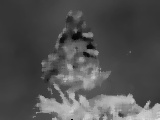
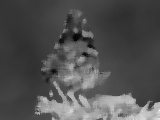
changed sigma values

diff --git a/hwork2/dip2_py/dip2.py b/hwork2/dip2_py/dip2.py
@@ -58,7 +58,7 @@ def spatial_convolution(src: np.ndarray, kernel: np.ndarray) -> np.ndarray:
     padding_height = kernel_h//2
     padding_width = kernel_w//2
 
-    padded_image = np.pad(src,((padding_height,),(padding_width,)), "median")
+    padded_image = np.pad(src,((padding_height,),(padding_width,)), "reflect")
 
     result = np.zeros_like(src, dtype=float)
 
@@ -96,13 +96,10 @@ def median_filter(src: np.ndarray, k_size: int) -> np.ndarray:
     for y in range(src_h):
         for x in range(src_w):
             region = padded_src[y:y+k_size , x:x+k_size]
-            if x == 5 and y == 5:
-                print(region.flatten())
+            
             #region = sorted(region)
             flat_region = region.flatten()
             sorted_region = np.array(sorted((flat_region)))
-            if x == 5 and y == 5:
-                print('after sort: ',sorted_region)
             result[y,x] = np.median(sorted_region)
             
     # TO DO !!
@@ -114,7 +111,7 @@ def bilateral_filter(src: np.ndarray, k_size: int, sigma_spatial: float, sigma_r
     """
     Bilateral filter.
     """
-    padded_image = np.pad(src, ((k_size//2,),(k_size//2,)),"median")
+    padded_image = np.pad(src, ((k_size//2,),(k_size//2,)),"reflect")
 
     result = np.zeros_like(src, dtype=float)
     img_h, img_w = src.shape
@@ -158,13 +155,17 @@ def choose_best_algorithm(noise_type: NoiseType) -> NoiseReductionAlgorithm:
     """
     Chooses the right algorithm for the given noise type.
     """
-    # TO DO !!
+    # TO DO !!  
+
+
+
+
     match noise_type:
         case NoiseType.NOISE_TYPE_1:
             return NoiseReductionAlgorithm.NR_MEDIAN_FILTER
         case NoiseType.NOISE_TYPE_2:
             return NoiseReductionAlgorithm.NR_BILATERAL_FILTER
-        case _:
+        case NoiseType.NOISE_TYPE_2:
             return NoiseReductionAlgorithm.NR_MOVING_AVERAGE_FILTER
 
     raise NotImplementedError("Student implementation missing")
@@ -196,9 +197,9 @@ def denoise_image(
 
     if noise_reduction_algorithm is NoiseReductionAlgorithm.NR_BILATERAL_FILTER:
         if noise_type is NoiseType.NOISE_TYPE_1:
-            return bilateral_filter(src, 9, 2, 100.0)
+            return bilateral_filter(src, 9, 2, 125.0)
         if noise_type is NoiseType.NOISE_TYPE_2:
-            return bilateral_filter(src, 9, 2, 100.0)
+            return bilateral_filter(src, 9, 2, 125.0)
         raise ValueError("Unhandled noise type!")
 
     raise ValueError("Unhandled filter type!")
